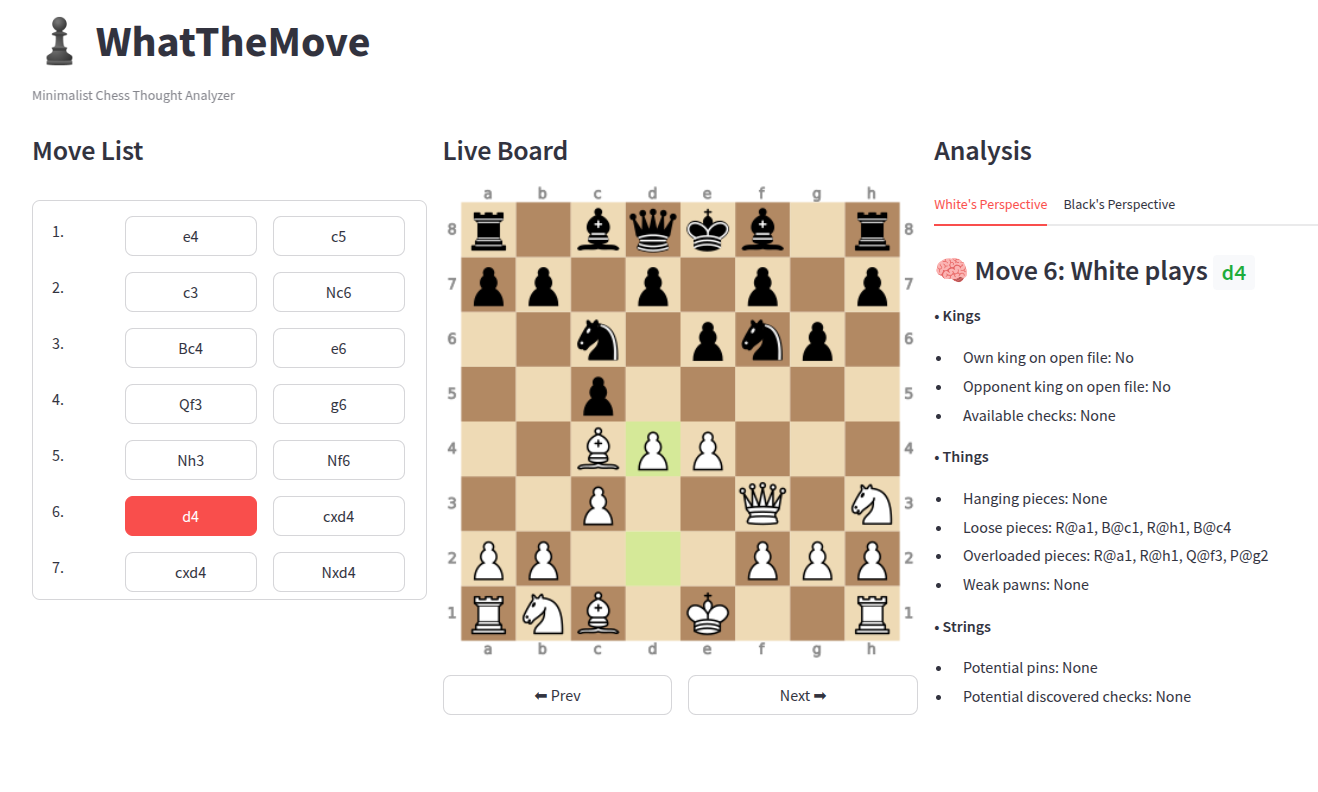
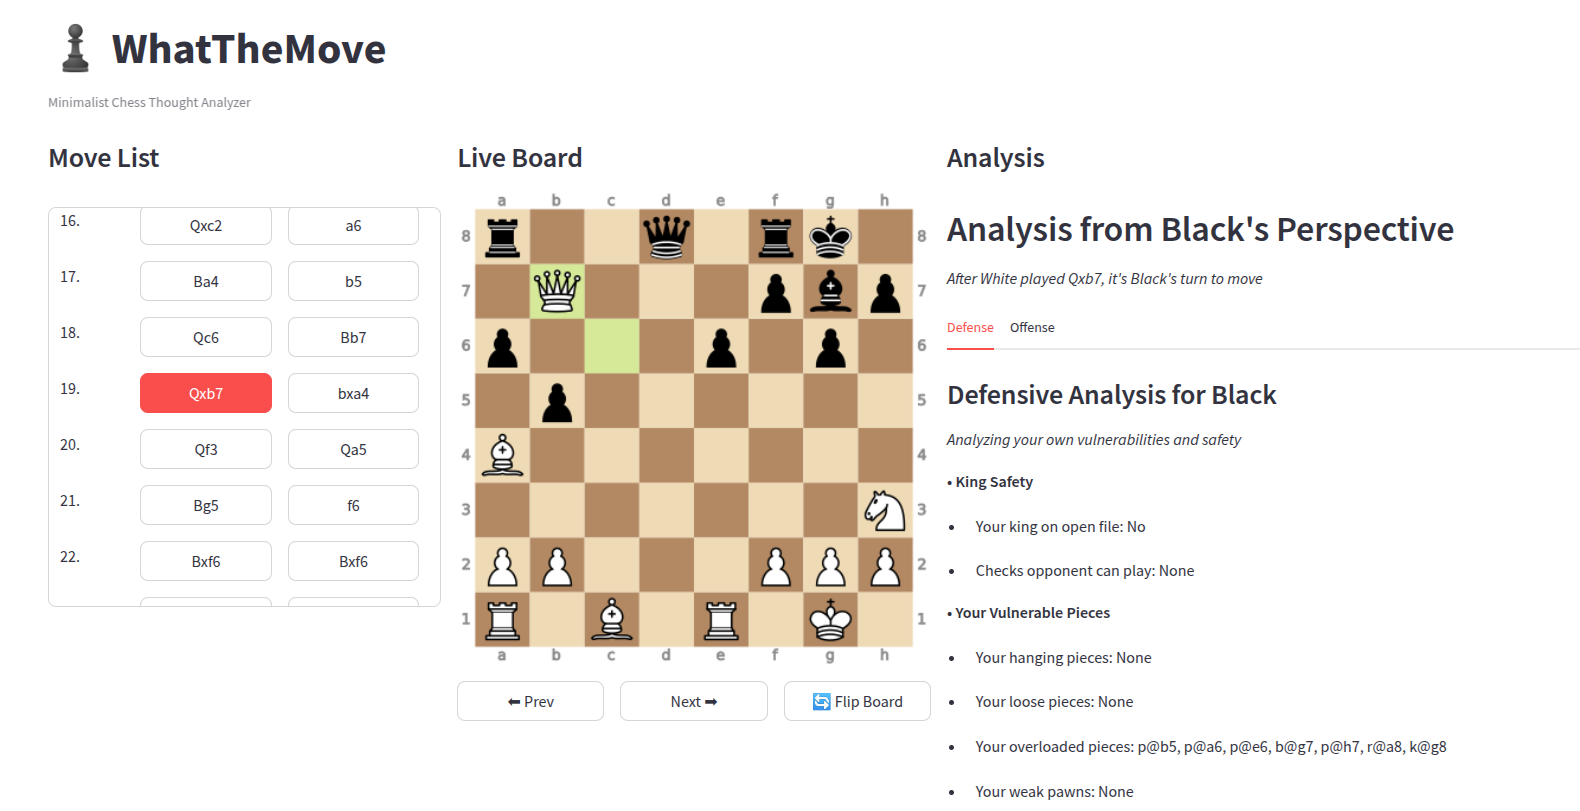
updating to defense/offense perspectives

diff --git a/src/app.py b/src/app.py
@@ -7,7 +7,7 @@ import chess.svg
 import cairosvg
 
 # Utility: Convert board to PNG for Streamlit
-def render_board(board, last_move=None):
+def render_board(board, last_move=None, orientation=chess.WHITE):
     # Lichess-like theme colors
     square_light = "#f0d9b5"
     square_dark = "#b58863"
@@ -19,6 +19,7 @@ def render_board(board, last_move=None):
         board=board, 
         lastmove=last_move, 
         size=400,
+        orientation=orientation,
         colors={
             'square light': square_light,
             'square dark': square_dark,
@@ -207,6 +208,14 @@ with st.sidebar:
     st.header("Game Upload")
     uploaded_file = st.file_uploader("Upload a PGN file", type=["pgn"])
     
+    # Board orientation options
+    st.header("Board Settings")
+    if "board_orientation" not in st.session_state:
+        st.session_state.board_orientation = chess.WHITE
+    
+    # Auto-flip option
+    auto_flip = st.checkbox("Auto-flip board (current player at bottom)", value=False)
+    
     # Add some helpful instructions in the sidebar
     with st.expander("How to use"):
         st.write("""
@@ -214,6 +223,7 @@ with st.sidebar:
         2. Navigate through moves using the buttons or move list
         3. View analysis from both White and Black perspectives
         4. Explore the ORIENT analysis for each position
+        5. Use the 'Flip Board' button or enable auto-flip to change perspective
         """)
 
 # Main content area
@@ -259,14 +269,14 @@ if uploaded_file:
             <style>
                 /* Make buttons smaller */
                 .stButton > button {
-                    padding: 0.25rem 0.5rem;
+                    padding: 0.15rem 0.5rem;
                     font-size: 0.8rem;
                     line-height: 1;
                 }
                 
                 /* Add spacing between move rows */
                 .row-widget.stButton {
-                    margin-bottom: 0.25rem;
+                    margin-bottom: 0.15rem;
                 }
             </style>
         """, unsafe_allow_html=True)
@@ -316,10 +326,24 @@ if uploaded_file:
         for i, move in enumerate(moves[:st.session_state.move_index + 1]):
             last_move = move
             board.push(move)
-        st.image(render_board(board, last_move=last_move), use_container_width=True)
         
-        # Navigation buttons
-        col_prev, col_next = st.columns(2)
+        # Determine board orientation
+        if auto_flip:
+            # Set orientation based on whose turn it is
+            st.session_state.board_orientation = board.turn
+        
+        # Render the board with the current orientation
+        st.image(
+            render_board(
+                board, 
+                last_move=last_move, 
+                orientation=st.session_state.board_orientation
+            ), 
+            use_container_width=True
+        )
+        
+        # Navigation and flip buttons
+        col_prev, col_next, col_flip = st.columns([1, 1, 1])
         if col_prev.button("⬅ Prev", use_container_width=True):
             if st.session_state.move_index > 0:
                 st.session_state.move_index -= 1
@@ -329,39 +353,178 @@ if uploaded_file:
             if st.session_state.move_index < len(moves) - 1:
                 st.session_state.move_index += 1
                 st.rerun()
+        
+        # Flip board button
+        if col_flip.button("🔄 Flip Board", use_container_width=True):
+            st.session_state.board_orientation = not st.session_state.board_orientation
+            st.rerun()
 
     # ANALYSIS
     with col3:
         st.subheader("Analysis")
         if st.session_state.move_index < len(moves):
+            # Get the move that was just played
             move = moves[st.session_state.move_index]
+            
+            # Set up the board to the position before the move
             board = game.board()
             for i in range(st.session_state.move_index):
                 board.push(moves[i])
             
-            # Get the current player's color
-            current_color = board.turn
+            # Get whose turn it was before the move (the player who made the move)
+            player_who_moved = board.turn
             san = board.san(move)
             
-            # Push the move to analyze the resulting position
+            # Push the move to get to the current position
             board.push(move)
             
-            # Create tabs for both perspectives
-            white_tab, black_tab = st.tabs(["White's Perspective", "Black's Perspective"])
+            # After the move is played, it's the other player's turn
+            next_to_move = board.turn
+            player_name = "White" if next_to_move == chess.WHITE else "Black"
+            player_who_moved_name = "White" if player_who_moved == chess.WHITE else "Black"
             
-            # White's perspective analysis
-            with white_tab:
-                white_analysis = orient_analysis(board, chess.WHITE, san, (st.session_state.move_index // 2) + 1)
-                st.markdown(white_analysis)
+            # Display whose perspective we're analyzing from
+            st.markdown(f"## Analysis from {player_name}'s Perspective")
+            st.markdown(f"*After {player_who_moved_name} played {san}, it's {player_name}'s turn to move*")
             
-            # Black's perspective analysis
-            with black_tab:
-                black_analysis = orient_analysis(board, chess.BLACK, san, (st.session_state.move_index // 2) + 1)
-                st.markdown(black_analysis)
+            # Create tabs for defense and offense perspectives
+            defense_tab, offense_tab = st.tabs(["Defense", "Offense"])
             
-            # Set the active tab based on who just moved
-            active_tab = 1 if current_color == chess.WHITE else 0
-            st.query_params["active_tab"] = active_tab
+            # Defense analysis - looking at your own vulnerabilities
+            with defense_tab:
+                st.markdown(f"### Defensive Analysis for {player_name}")
+                st.markdown("*Analyzing your own vulnerabilities and safety*")
+                
+                # King safety
+                st.markdown("**• King Safety**")
+                king_square = board.king(next_to_move)
+                file_open = all(
+                    (board.piece_at(chess.square(chess.square_file(king_square), r)) is None or 
+                     board.piece_at(chess.square(chess.square_file(king_square), r)).piece_type == chess.KING)
+                    for r in range(8)
+                )
+                st.markdown(f"- Your king on open file: {'Yes ⚠' if file_open else 'No'}")
+                
+                # Checks against you
+                checks_against_you = []
+                for move in board.legal_moves:
+                    if board.gives_check(move):
+                        checks_against_you.append(board.san(move))
+                st.markdown(f"- Checks opponent can play: {', '.join(checks_against_you) if checks_against_you else 'None'}")
+                
+                # Your vulnerable pieces
+                st.markdown("**• Your Vulnerable Pieces**")
+                hanging, loose, overloaded, weak = [], [], [], []
+                for square in chess.SQUARES:
+                    piece = board.piece_at(square)
+                    if not piece or piece.color != next_to_move:
+                        continue
+                    attackers = board.attackers(not next_to_move, square)
+                    defenders = board.attackers(next_to_move, square)
+                    if attackers and not defenders:
+                        hanging.append(f"{piece.symbol()}@{chess.square_name(square)}")
+                    elif not defenders:
+                        loose.append(f"{piece.symbol()}@{chess.square_name(square)}")
+                    elif len(defenders) == 1:
+                        overloaded.append(f"{piece.symbol()}@{chess.square_name(square)}")
+                    if piece.piece_type == chess.PAWN and not defenders:
+                        weak.append(chess.square_name(square))
+                
+                st.markdown(f"- Your hanging pieces: {', '.join(hanging) if hanging else 'None'}")
+                st.markdown(f"- Your loose pieces: {', '.join(loose) if loose else 'None'}")
+                st.markdown(f"- Your overloaded pieces: {', '.join(overloaded) if overloaded else 'None'}")
+                st.markdown(f"- Your weak pawns: {', '.join(weak) if weak else 'None'}")
+                
+                # Potential pins against you
+                st.markdown("**• Potential Pins Against You**")
+                pins_against_you = []
+                for sq in chess.SQUARES:
+                    if board.piece_at(sq) and board.piece_at(sq).color == next_to_move and board.is_pinned(next_to_move, sq):
+                        piece = board.piece_at(sq)
+                        pins_against_you.append(f"{piece.symbol()}@{chess.square_name(sq)}")
+                st.markdown(f"- Your pinned pieces: {', '.join(pins_against_you) if pins_against_you else 'None'}")
+                
+                # Opponent's potential discoveries
+                st.markdown("**• Opponent's Potential Discoveries**")
+                opponent_discoveries = []
+                for move in board.legal_moves:
+                    if board.is_capture(move):
+                        continue  # Skip captures for simplicity
+                    board.push(move)
+                    if board.is_check():
+                        from_square = move.from_square
+                        piece = board.piece_at(move.to_square)
+                        opponent_discoveries.append(f"{piece.symbol()} from {chess.square_name(from_square)}")
+                    board.pop()
+                st.markdown(f"- Opponent discoveries: {', '.join(opponent_discoveries) if opponent_discoveries else 'None'}")
+            
+            # Offense analysis - looking at opponent vulnerabilities
+            with offense_tab:
+                st.markdown(f"### Offensive Analysis for {player_name}")
+                st.markdown("*Analyzing opponent vulnerabilities and your attacking chances*")
+                
+                # Opponent king safety
+                st.markdown("**• Opponent King Safety**")
+                opp_king_square = board.king(not next_to_move)
+                opp_file_open = all(
+                    (board.piece_at(chess.square(chess.square_file(opp_king_square), r)) is None or 
+                     board.piece_at(chess.square(chess.square_file(opp_king_square), r)).piece_type == chess.KING)
+                    for r in range(8)
+                )
+                st.markdown(f"- Opponent king on open file: {'Yes 🎯' if opp_file_open else 'No'}")
+                
+                # Your available checks
+                your_checks = []
+                for move in board.legal_moves:
+                    if board.gives_check(move):
+                        your_checks.append(board.san(move))
+                st.markdown(f"- Checks you can play: {', '.join(your_checks) if your_checks else 'None'}")
+                
+                # Opponent vulnerable pieces
+                st.markdown("**• Opponent Vulnerable Pieces**")
+                opp_hanging, opp_loose, opp_overloaded, opp_weak = [], [], [], []
+                for square in chess.SQUARES:
+                    piece = board.piece_at(square)
+                    if not piece or piece.color != (not next_to_move):
+                        continue
+                    attackers = board.attackers(next_to_move, square)
+                    defenders = board.attackers(not next_to_move, square)
+                    if attackers and not defenders:
+                        opp_hanging.append(f"{piece.symbol()}@{chess.square_name(square)}")
+                    elif not defenders:
+                        opp_loose.append(f"{piece.symbol()}@{chess.square_name(square)}")
+                    elif len(defenders) == 1:
+                        opp_overloaded.append(f"{piece.symbol()}@{chess.square_name(square)}")
+                    if piece.piece_type == chess.PAWN and not defenders:
+                        opp_weak.append(chess.square_name(square))
+                
+                st.markdown(f"- Opponent hanging pieces: {', '.join(opp_hanging) if opp_hanging else 'None'}")
+                st.markdown(f"- Opponent loose pieces: {', '.join(opp_loose) if opp_loose else 'None'}")
+                st.markdown(f"- Opponent overloaded pieces: {', '.join(opp_overloaded) if opp_overloaded else 'None'}")
+                st.markdown(f"- Opponent weak pawns: {', '.join(opp_weak) if opp_weak else 'None'}")
+                
+                # Potential pins you can create
+                st.markdown("**• Potential Pins You Can Create**")
+                pins_you_can_create = []
+                for sq in chess.SQUARES:
+                    if board.piece_at(sq) and board.piece_at(sq).color == (not next_to_move) and board.is_pinned(not next_to_move, sq):
+                        piece = board.piece_at(sq)
+                        pins_you_can_create.append(f"{piece.symbol()}@{chess.square_name(sq)}")
+                st.markdown(f"- Opponent pieces you can pin: {', '.join(pins_you_can_create) if pins_you_can_create else 'None'}")
+                
+                # Your potential discoveries
+                st.markdown("**• Your Potential Discoveries**")
+                your_discoveries = []
+                for move in board.legal_moves:
+                    from_square = move.from_square
+                    piece = board.piece_at(from_square)
+                    if not piece or piece.color != next_to_move:
+                        continue
+                    board.push(move)
+                    if board.is_check():
+                        your_discoveries.append(f"{piece.symbol()}@{chess.square_name(from_square)} moving creates discovery")
+                    board.pop()
+                st.markdown(f"- Your discoveries: {', '.join(your_discoveries) if your_discoveries else 'None'}")
 else:
     # Center the info message when no file is uploaded
     st.markdown(

diff --git a/README.md b/README.md
@@ -14,9 +14,11 @@ WhatTheMove is a minimalist chess analysis tool that breaks down positions using
   - **E**valuate position
   - **N**ote tactical opportunities
   - **T**hink strategically
-- **Dual Perspective**: See analysis from both White and Black's viewpoint
+- **Defense & Offense Analysis**: See both defensive vulnerabilities and offensive opportunities
 - **Interactive Board**: Navigate through the game with a visual chessboard
+- **Board Orientation**: Flip the board or enable auto-flip to see the position from the current player's perspective
 - **Clean Interface**: Minimalist design focused on the analysis
+- **Scrollable Move List**: Compact, easy-to-navigate move history
 
 ## Installation
 
@@ -53,8 +55,29 @@ WhatTheMove is a minimalist chess analysis tool that breaks down positions using
 1. Launch the application
 2. Upload a PGN file using the sidebar
 3. Navigate through moves using the move list or navigation buttons
-4. View the analysis for each position from both perspectives
-5. Use the insights to understand the key elements of each position
+4. View the analysis from the perspective of the player to move
+5. Toggle between Defense and Offense tabs to see different aspects of the position
+6. Use the "Flip Board" button or enable auto-flip in settings to change board orientation
+7. Use the insights to understand the key elements of each position
+
+## Analysis Approach
+
+WhatTheMove provides analysis from the perspective of the player whose turn it is to move:
+
+- **Defense Tab**: Analyzes your own vulnerabilities
+
+  - King safety
+  - Checks opponent can play against you
+  - Your hanging, loose, and overloaded pieces
+  - Pins against your pieces
+  - Opponent's potential discovered attacks
+
+- **Offense Tab**: Analyzes opponent vulnerabilities
+  - Opponent king safety
+  - Checks you can play
+  - Opponent's hanging, loose, and overloaded pieces
+  - Pins you can create
+  - Your potential discovered attacks
 
 ## Project Structure
 
